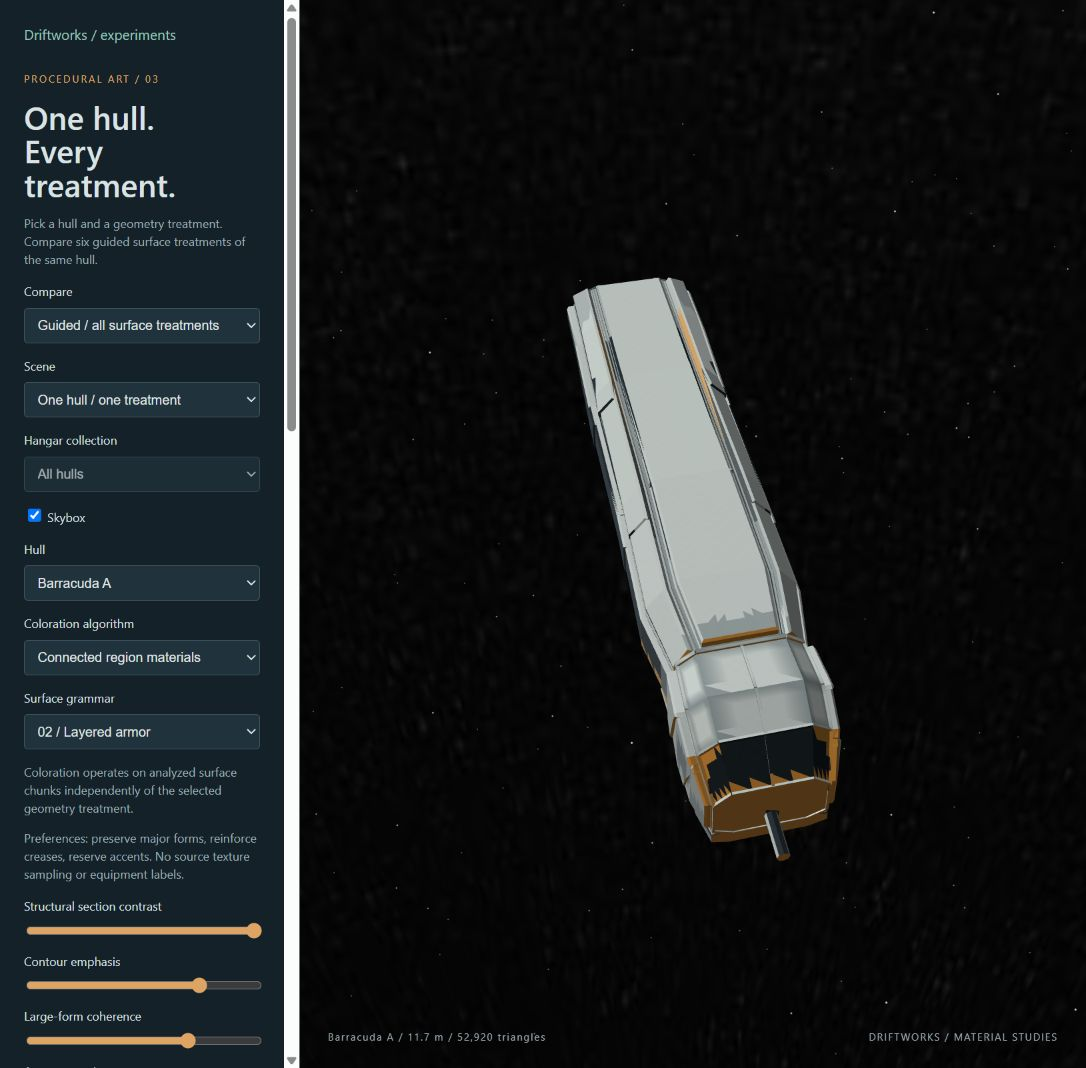
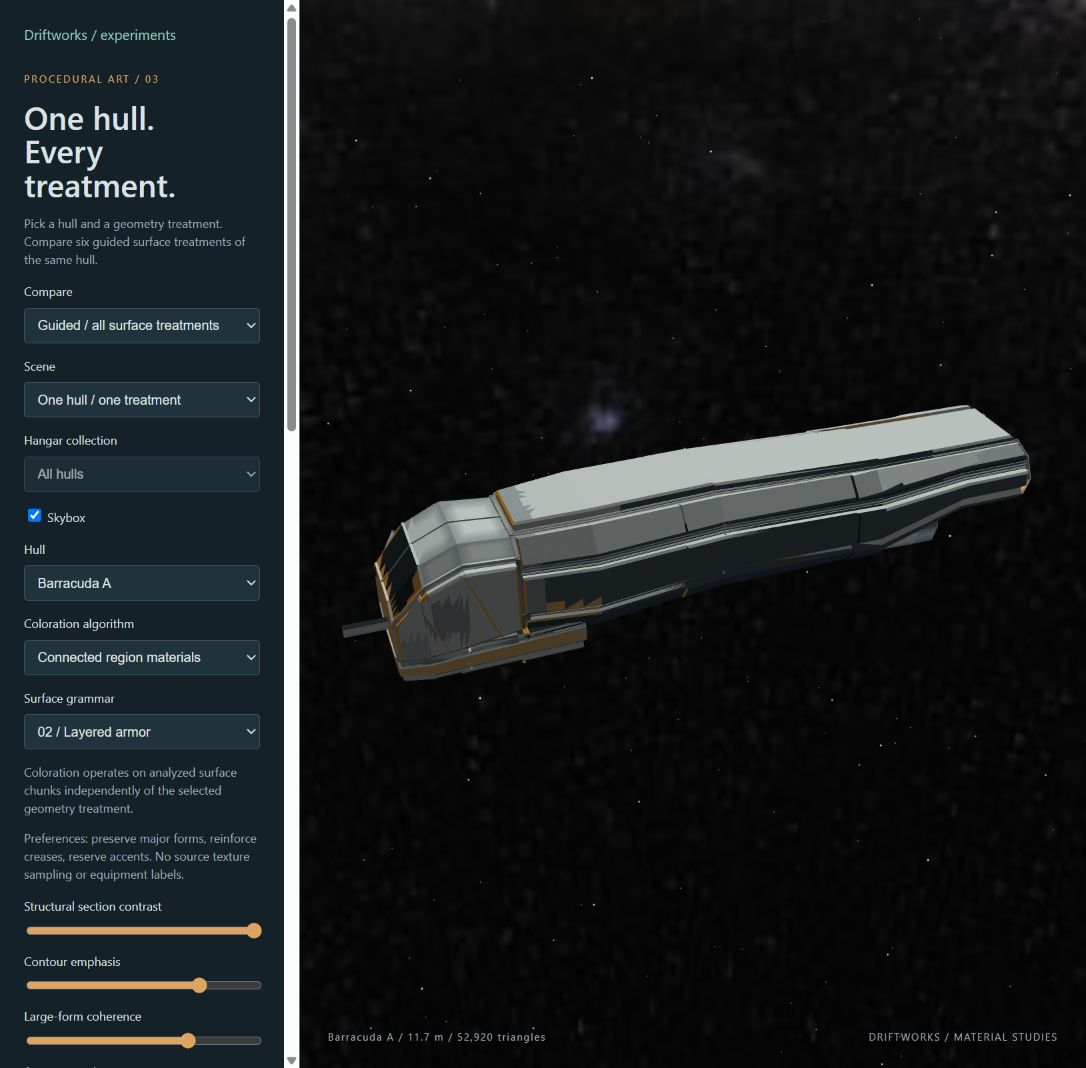
playing with auto drawing and comms

Changed region(s): [[0.3039, 0.2472, 0.9724, 0.8034], [0.9116, 0.0, 1.0, 0.0309], [0.6685, 0.1236, 0.6989, 0.1545]]

diff --git a/tests/tests.js b/tests/tests.js
@@ -1320,12 +1320,12 @@
     var combat={enabled:true,dead:false,hull:100,enemies:[red]};
     api.step(clock,0,combat,false,rng);red.fire=true;
     assert(api.step(clock,0,combat,false,rng).event==='firing');
-    assertClose(clock.quietGap,3.14);
+    assertClose(clock.quietGap,3.36);
     api.step(clock,1,combat,true,rng);red.fire=false;
     assert(api.step(clock,2,combat,false,rng)===null);
     api.step(clock,8,combat,false,rng);red.targetId='two';
     assert(api.step(clock,0,combat,false,function(){return 0;}).event==='target');
-    assertClose(clock.quietGap,0.9);
+    assertClose(clock.quietGap,2);
     assert(api.step(clock,5,combat,false,rng)===null); // No replay when the action stays unchanged.
   });
 
@@ -1605,6 +1605,32 @@
       toggle.onclick();assert(activity[activity.length-1]===false);
       radio.pause();assert(activity[activity.length-1]===false);
     } finally {DW.audio.commsChannel=oldChannel;DW.audio.setCommsActive=oldActive;DW.mumble.render=oldRender;DW.mumble.transmit=oldTransmit;}
+  });
+
+  test('radio waits for actual playback and a full silent gap before another transmission', function () {
+    var DW=window.Driftworks, oldChannel=DW.audio.commsChannel, oldStep=DW.flightComms.step;
+    var oldRender=DW.mumble.render, oldTransmit=DW.mumble.transmit, sources=[], clock, busy;
+    var context={state:'running',createBuffer:function(){return {copyToChannel:function(){}};},
+      createBufferSource:function(){var source={connect:function(){},disconnect:function(){},start:function(){},stop:function(){},onended:null};sources.push(source);return source;}};
+    DW.audio.commsChannel=function(){return {context:context,output:{}};};
+    DW.mumble.render=function(){return new Float32Array(16);};
+    DW.mumble.transmit=function(){return {samples:new Float32Array(16),duration:.1};};
+    DW.flightComms.step=function(state,dt,combat,occupied,random,player){clock=state;busy=occupied;return oldStep(state,dt,combat,occupied,function(){return 0;},player);};
+    try {
+      var fields=[{textContent:''},{textContent:''}],panel={querySelector:function(s){return s==='[data-speaker]'?fields[0]:fields[1];},classList:{add:function(){},remove:function(){},toggle:function(){}}};
+      var radio=DW.flightComms.mount(panel,{setAttribute:function(){}}), pilot={id:'w',team:'ally',hp:90,mode:'approach'};
+      var combat={enabled:true,hull:100,enemies:[pilot]};
+      radio.unlock();radio.update(0,combat);pilot.mode='evade';radio.update(0,combat);
+      assert(sources.length===1);
+      var ended=sources[0].onended;
+      radio.update(20,combat);assert(busy && sources.length===1 && clock.quiet===0);
+      ended();clock.wait=0;
+      radio.update(1.99,combat);assert(sources.length===1);
+      radio.update(.02,combat);assert(sources.length===2);
+      ended();radio.update(20,combat);
+      assert(busy && sources.length===2,'Old completion must not release the new source');
+      sources[1].onended();radio.pause();
+    } finally {DW.audio.commsChannel=oldChannel;DW.flightComms.step=oldStep;DW.mumble.render=oldRender;DW.mumble.transmit=oldTransmit;}
   });
 
   test('flight comms retains a bounded newest-first subtitle history', function () {

diff --git a/experiments/mission-asteroid-patrol.html b/experiments/mission-asteroid-patrol.html
@@ -65,8 +65,8 @@ body[data-mission] #watch-panel{display:none!important}
 <script src="../src/game.js?v=28388fb25a28"></script>
 <script src="dom.js?v=c1d4287e76cd"></script>
 <script src="retail-profiles.js?v=99526ebcd858"></script><script src="flight-model.js?v=f6471383e49a"></script><script src="radar.js?v=5b94bf01c95c"></script><script src="skybox.js?v=024820197f3f"></script><script src="retail-weapons.js?v=642a0025bb1b"></script><script src="guns.js?v=0d8395695e7e"></script><script src="input.js?v=ddeeb7b838ec"></script><script src="training.js?v=685cba79f943"></script><script src="performance.js?v=ba17efe880d9"></script><script src="../assets/ships/quaternius-ultimate-spaceships/meshes.js?v=0fc9a4cc50fb"></script><script src="ship-packs.js?v=85e8727e0b8d"></script><script src="mumble.js?v=360b3c36d97c"></script><script src="flight-dialogue.js?v=ef62706cbcdb"></script>
-<script src="flight-comms.js?v=4a8b98a4fa20"></script>
-<script src="speech-sprites/generated-v1/face-blend.js?v=8c379816f98b"></script><script src="flight-portraits.js?v=0f968a64f2ea"></script><script src="flight-radio.js?v=2719ed4c4399"></script><script src="target-camera.js?v=e846c0847e93"></script><script src="flight-presentation.js?v=40dc8a821fa9"></script><script src="flight-diagnostics.js?v=978c7c862799"></script><script src="flight-controls.js?v=451a856e5bed"></script><script src="flight-session.js?v=2d038f4ffde1"></script><script src="flight-hud.js?v=e9cdb8adecfc"></script>
+<script src="flight-comms.js?v=695d8a351248"></script>
+<script src="speech-sprites/generated-v1/face-blend.js?v=8c379816f98b"></script><script src="flight-portraits.js?v=0f968a64f2ea"></script><script src="flight-radio.js?v=dd661d3eacf0"></script><script src="target-camera.js?v=e846c0847e93"></script><script src="flight-presentation.js?v=40dc8a821fa9"></script><script src="flight-diagnostics.js?v=978c7c862799"></script><script src="flight-controls.js?v=451a856e5bed"></script><script src="flight-session.js?v=2d038f4ffde1"></script><script src="flight-hud.js?v=e9cdb8adecfc"></script>
 <script type="importmap">{"imports":{"three":"../vendor/three/build/three.module.js"}}</script>
 <script type="module" src="../assets/characters/quaternius-astronaut/poses.js?v=5b153d4d6b3a"></script>
 <script src="flight-ai.js?v=6aafa3682577"></script><script src="flight-duel.js?v=443c69017af7"></script><script src="flight-watch.js?v=49b4caa0eff3"></script>

diff --git a/experiments/flight.html b/experiments/flight.html
@@ -64,8 +64,8 @@ aside select{max-width:100%}
 <script src="../src/game.js?v=28388fb25a28"></script>
 <script src="dom.js?v=c1d4287e76cd"></script>
 <script src="retail-profiles.js?v=99526ebcd858"></script><script src="flight-model.js?v=f6471383e49a"></script><script src="radar.js?v=5b94bf01c95c"></script><script src="skybox.js?v=024820197f3f"></script><script src="retail-weapons.js?v=642a0025bb1b"></script><script src="guns.js?v=0d8395695e7e"></script><script src="input.js?v=ddeeb7b838ec"></script><script src="training.js?v=685cba79f943"></script><script src="performance.js?v=ba17efe880d9"></script><script src="../assets/ships/quaternius-ultimate-spaceships/meshes.js?v=0fc9a4cc50fb"></script><script src="ship-packs.js?v=85e8727e0b8d"></script><script src="mumble.js?v=360b3c36d97c"></script><script src="flight-dialogue.js?v=ef62706cbcdb"></script>
-<script src="flight-comms.js?v=4a8b98a4fa20"></script>
-<script src="speech-sprites/generated-v1/face-blend.js?v=8c379816f98b"></script><script src="flight-portraits.js?v=0f968a64f2ea"></script><script src="flight-radio.js?v=2719ed4c4399"></script><script src="target-camera.js?v=e846c0847e93"></script><script src="flight-presentation.js?v=40dc8a821fa9"></script><script src="flight-diagnostics.js?v=978c7c862799"></script><script src="flight-controls.js?v=451a856e5bed"></script><script src="flight-session.js?v=2d038f4ffde1"></script><script src="flight-hud.js?v=e9cdb8adecfc"></script>
+<script src="flight-comms.js?v=695d8a351248"></script>
+<script src="speech-sprites/generated-v1/face-blend.js?v=8c379816f98b"></script><script src="flight-portraits.js?v=0f968a64f2ea"></script><script src="flight-radio.js?v=dd661d3eacf0"></script><script src="target-camera.js?v=e846c0847e93"></script><script src="flight-presentation.js?v=40dc8a821fa9"></script><script src="flight-diagnostics.js?v=978c7c862799"></script><script src="flight-controls.js?v=451a856e5bed"></script><script src="flight-session.js?v=2d038f4ffde1"></script><script src="flight-hud.js?v=e9cdb8adecfc"></script>
 <script type="importmap">{"imports":{"three":"../vendor/three/build/three.module.js"}}</script>
 <script type="module" src="../assets/characters/quaternius-astronaut/poses.js?v=5b153d4d6b3a"></script>
 <script src="flight-ai.js?v=6aafa3682577"></script><script src="flight-duel.js?v=443c69017af7"></script><script src="flight-watch.js?v=49b4caa0eff3"></script>

diff --git a/experiments/flight-radio.js b/experiments/flight-radio.js
@@ -21,6 +21,7 @@
             DW.audio.setCommsActive(false);
             generation++;
             channelRemaining = 0;
+            clock.quiet = 0;
             currentSpeaker = /** @type {string | null} */ (null);
             if (source) {
                 source.onended = null;
@@ -70,13 +71,14 @@
                 source = context.createBufferSource();
                 source.buffer = buffer;
                 source.connect(output);
-                var ticket = generation, playing = source;
+                var ticket = ++generation, playing = source;
                 source.onended = function () {
                     playing.disconnect();
-                    if (ticket === generation) {
+                    if (ticket === generation && source === playing) {
                         DW.audio.setCommsActive(false);
                         source = null;
                         channelRemaining = 0;
+                        clock.quiet = 0;
                         currentSpeaker = /** @type {string | null} */ (null);
                         panel.classList.remove('transmitting');
                         if (portrait) portrait.stop();
@@ -124,6 +126,8 @@
                 panel.classList.remove('idle');
             },
             update: /** @param {number} dt @param {Combat} combat @param {FlightState} player */ function (dt, combat, player) {
+                // Count this whole interval as occupied if playback was active at its start.
+                var wasBusy = !!source || channelRemaining > 0;
                 remaining = Math.max(0, remaining - dt);
                 channelRemaining = Math.max(0, channelRemaining - dt);
                 if (!source && channelRemaining <= 0)
@@ -134,7 +138,7 @@
                     subtitle.textContent = 'Channel clear.';
                     panel.classList.add('idle');
                 }
-                var line = step(clock, dt, combat, !!source || channelRemaining > 0, Math.random, player);
+                var line = step(clock, dt, combat, wasBusy || !!source || channelRemaining > 0, Math.random, player);
                 if (line)
                     speak(line);
                 if (portrait) portrait.update(!reassurance && currentSpeaker ? clock.emotions[currentSpeaker] : undefined);

diff --git a/experiments/hull-panels.js b/experiments/hull-panels.js
@@ -120,10 +120,17 @@ function plate(polygons,region,gap,bevel,height){
  }));
  const boundary=Array.from(edges.values()).filter(e=>e.count===1);
  boundary.forEach(e=>{const inward=unit(cross(region.normal,sub(e.b,e.a)));points.get(key(e.a))?.inward.push(inward);points.get(key(e.b))?.inward.push(inward);});
+ let insetScale=1;
  /** @param {V} p @param {number} amount @param {number} level */
  function inset(p,amount,level){const item=points.get(key(p));if(!item)return p;const normals=item.inward;let shift=[0,0,0];
-  if(normals.length){const average=unit([0,1,2].map(k=>normals.reduce((sum,n)=>sum+n[k],0)));const denominator=Math.max(.5,Math.min(...normals.map(n=>Math.abs(dot(n,average)))));shift=average.map(x=>x*amount/denominator);}
+  if(normals.length){const average=unit([0,1,2].map(k=>normals.reduce((sum,n)=>sum+n[k],0)));const denominator=Math.max(.5,Math.min(...normals.map(n=>Math.abs(dot(n,average)))));shift=average.map(x=>x*amount*insetScale/denominator);}
   return p.map((x,k)=>k<3?x+shift[k]+item.normal[k]*level:x);
+ }
+ // Small boundary triangles can be narrower than the requested inset. Never
+ // push a boundary vertex across the opposite edge and fold the cap into teeth.
+ for(let attempt=0;attempt<12;attempt++){
+  const valid=polygons.every(poly=>{const cap=poly.map(p=>inset(p,gap+bevel,height));for(let i=1;i<poly.length-1;i++){const before=cross(sub(poly[i],poly[0]),sub(poly[i+1],poly[0])),after=cross(sub(cap[i],cap[0]),sub(cap[i+1],cap[0]));if(dot(before,after)<dot(before,before)*.1)return false;}return true;});
+  if(valid)break;insetScale*=.5;
  }
  /** @type {number[]} */const data=[];
  polygons.forEach(poly=>{const cap=poly.map(p=>inset(p,gap+bevel,height));for(let i=1;i<cap.length-1;i++)triangle(data,cap[0],cap[i],cap[i+1]);});

diff --git a/experiments/livery-lab.html b/experiments/livery-lab.html
@@ -17,4 +17,4 @@
 <script src="../src/hud.js?v=20260922-cavern1"></script>
 <script src="../src/mesh-builder.js"></script><script src="../src/mining-rig.js?v=ebc32e1f4b09"></script><script src="../src/model-viewer.js?v=20261018-focus-flight3"></script><script src="../src/scene3d.js?v=20261018-focus-flight3"></script>
 <script src="../src/game.js?v=20261007-3d-geology2"></script>
-<script src="../assets/ships/quaternius-ultimate-spaceships/meshes.js"></script><script src="ship-packs.js"></script><script src="skybox.js"></script><script type="module" src="livery-lab.js?v=20261019-panel-lift"></script></body></html>
+<script src="../assets/ships/quaternius-ultimate-spaceships/meshes.js"></script><script src="ship-packs.js"></script><script src="skybox.js"></script><script type="module" src="livery-lab.js?v=20261019-inset-safety"></script></body></html>

diff --git a/experiments/flight-comms.js b/experiments/flight-comms.js
@@ -500,7 +500,7 @@
         state.last = text;
         state.serial++;
         state.quiet = 0;
-        state.quietGap = 0.9 + random() * 2.8;
+        state.quietGap = 2 + random() * 1.7;
         state.lastCraft = craft ? craft.id : null;
         state.wait = 18 + random() * 12;
         /** @type {Line} */

diff --git a/docs/architecture.md b/docs/architecture.md
@@ -682,7 +682,7 @@ Flight lab communications live in `experiments/flight-comms.js`. The pure
 `create`/`step` scheduler consumes active flight seconds and living training
 combatants. `mount` owns subtitles and a gesture-unlocked Web Audio context,
 using `mumble.js` synthesis and radio processing. Only one voice plays at a
-time; pause, reset, and page exit stop playback. Comms state is not persisted.
+time; actual source completion restarts the silent-gap timer, and occupied frame intervals never count as silence. Completion callbacks are scoped to their transmission; pause, reset, and page exit stop playback. Comms state is not persisted.
 `pilotVoice(craft)` assigns 16 curated adult timbres by stable craft index in
 furball, mixing masculine and feminine voices on both teams. Lines carry fresh
 `voiceSettings` and a character seed. Playback applies emotion over that stable
@@ -697,7 +697,7 @@ transitions and emotions cannot nominate reactive calls or start exchanges.
 Comms observes living craft mode transitions each flight frame (attack, evade,
 break, recover, reposition). It records transitions even while blocked and
 drops those calls rather than queuing stale maneuvers. Reactive calls require
-a varied 0.9-3.7 seconds of clear channel and ten seconds since that pilot last spoke; distress
+a varied 2-3.7 seconds of clear channel and ten seconds since that pilot last spoke; distress
 precedes other transitions. Valid support replies, reassurance, and returning acknowledgments take first priority and bypass pilot/activity cooldowns. Each reply must start within five active flight seconds of the preceding line being selected, or it is discarded, including while the channel is busy. Support and emotional exchanges finish with an A/B/A acknowledgment; each turn still waits for a clear channel. Firing starts and target switches also offer calls,
 and another speaker is preferred when several pilots have something to say. Speaker labels identify craft and maneuver. Tail
 calls additionally require a pursuing opponent behind the speaker. Muted

diff --git a/docs/livery-lab.md b/docs/livery-lab.md
@@ -1,3 +1,5 @@
+Plate boundary insets are reduced when they would reverse a cap triangle. Fine tessellation therefore cannot fold a narrow border triangle into a sawtooth overlap.
+
 Raised plate clearance uses the geometric region normal rather than interpolated artist shading normals, which can point along the surface at hard corners. Source triangle ownership is retained when adding material sampling vertices.
 
 Generated treatment panels retain their source region ID through material assignment. Their material owner is never re-guessed per vertex; fallback source-surface lookup uses the geometric face normal. Local boundary-distance treatments still use their owning region contours.
